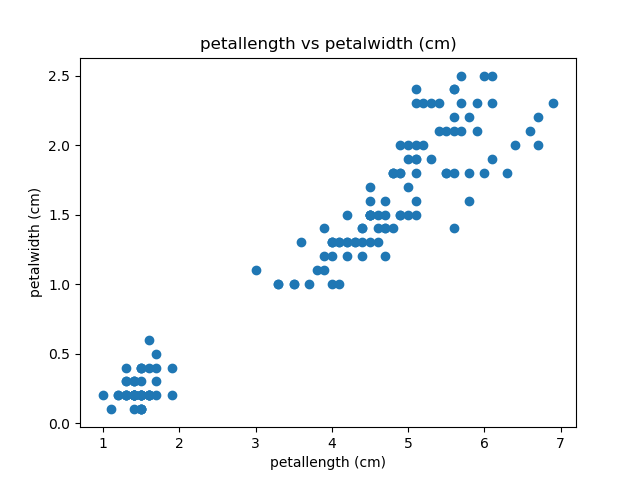
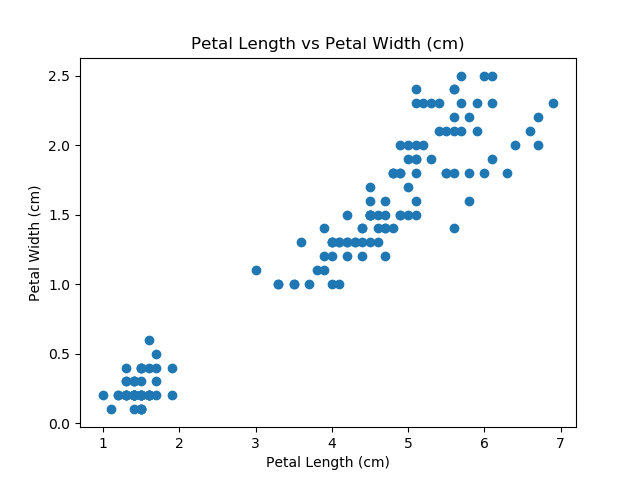
I was reusing my scatter plotting code, so turned it into a function now instead.

Changed region(s): [[0.2812, 0.0625, 0.7188, 0.125], [0.4062, 0.9375, 0.625, 1.0], [0.0312, 0.375, 0.0625, 0.625]]

diff --git a/irisAnalysis.py b/irisAnalysis.py
@@ -28,52 +28,55 @@ df = pd.read_csv(csv, index_col = "class")
 
 # Got the idea to iterate through column names from https://www.marsja.se/how-to-get-the-column-names-from-a-pandas-dataframe-print-and-list/#3_Get_Column_Names_by_Iterating_of_the_Columns
 # Column names without the space looks odd. Figure if I can get past the "l" in Sepal and Petal, and split it into 2 strings with a space in the middle, it'll look neater.
+# Since I'll need this again later, I'm turning it into a function called nameFormat.
+
+def nameFormat(name):
+    space = name.find("l") + 1
+    firsthalf = name[:space]
+    secondhalf = name[space:]
+    name = firsthalf.capitalize() + " " + secondhalf.capitalize()
+    return name
+
 for measurement in df.columns:
     plt.hist(df[measurement])
-    space = measurement.find("l") + 1
-    firsthalf = measurement[:space]
-    secondhalf = measurement[space:]
-    name = firsthalf.capitalize() + " " + secondhalf.capitalize()
+    name = nameFormat(measurement)
     plt.xlabel(name + ' (cm)')
     plt.ylabel ("Frequency)")
     plt.title("Histogram of " + name + " Frequency")
     plt.savefig(measurement +"Hist.png")
     plt.clf()
 
-
-print(df.columns[0])
-
 x = 0
 y = 1
 z = len(df.columns)
 
+# Since my while loop was reusing this code, I've made scatter into a function.
+def scatter(x,y):
+    xaxis = df.columns[x]
+    yaxis = df.columns[y]
+    plt.scatter(df[xaxis],df[yaxis])
+    xaxisName = nameFormat(xaxis)
+    yaxisName = nameFormat(yaxis)
+    plt.xlabel(xaxisName + " (cm)")
+    plt.ylabel(yaxisName + " (cm)")
+    plt.title(xaxisName + " Vs " + yaxisName + " (cm)")
+    plt.savefig(xaxis + "Vs" + yaxis + ".png")
+    plt.clf()
 
 # I was getting an error because y was becoming greater than the number of columns. For now I will use a try and except to get past this, as its expected.
+# Learned about using pass in the except section here - https://stackoverflow.com/questions/574730/python-how-to-ignore-an-exception-and-proceed
 try:
     while x < z:
         if y < z:
                 #put code here
-            xaxis = df.columns[x]
-            yaxis = df.columns[y]
-            plt.scatter(df[xaxis],df[yaxis])
-            plt.xlabel(xaxis + " (cm)")
-            plt.ylabel(yaxis + " (cm)")
-            plt.title(xaxis + " vs " + yaxis + " (cm)")
-            plt.savefig(xaxis + yaxis + ".png")
-            plt.clf()
+            scatter(x,y)
             y += 1
         elif y == z:
             x += 1
             y = x + 1
             # put code here
-            xaxis = df.columns[x]
-            yaxis = df.columns[y]
-            plt.scatter(df[xaxis],df[yaxis])
-            plt.xlabel(xaxis + " (cm)")
-            plt.ylabel(yaxis + " (cm)")
-            plt.title(xaxis + " vs " + yaxis + " (cm)")
-            plt.savefig(xaxis + yaxis + ".png")
-            plt.clf()
+            scatter(x,y)
             y += 1
 except:
     pass
+
